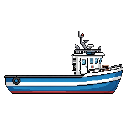
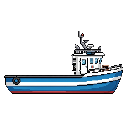
fixed the dimension of boat3

Changed region(s): [[0.0312, 0.2389, 0.9688, 0.8496]]

diff --git a/src/boat.js b/src/boat.js
@@ -46,7 +46,7 @@ export class Boat {
             this.scale = 6;
             this.width = 128;
             this.height = 128;
-            this.floorYOffset = 500;
+            this.floorYOffset = 530;
         }
     }
 
